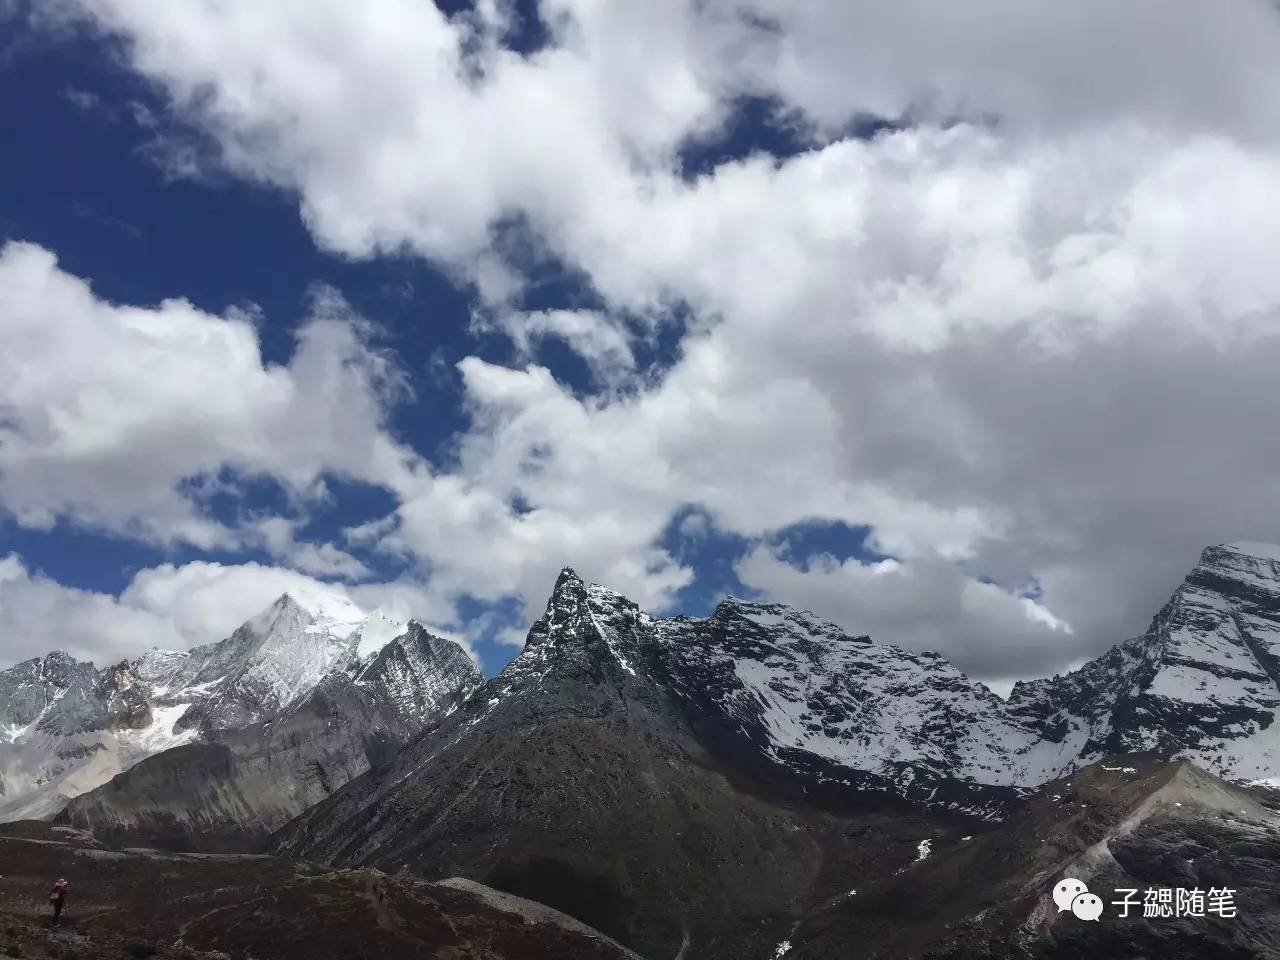
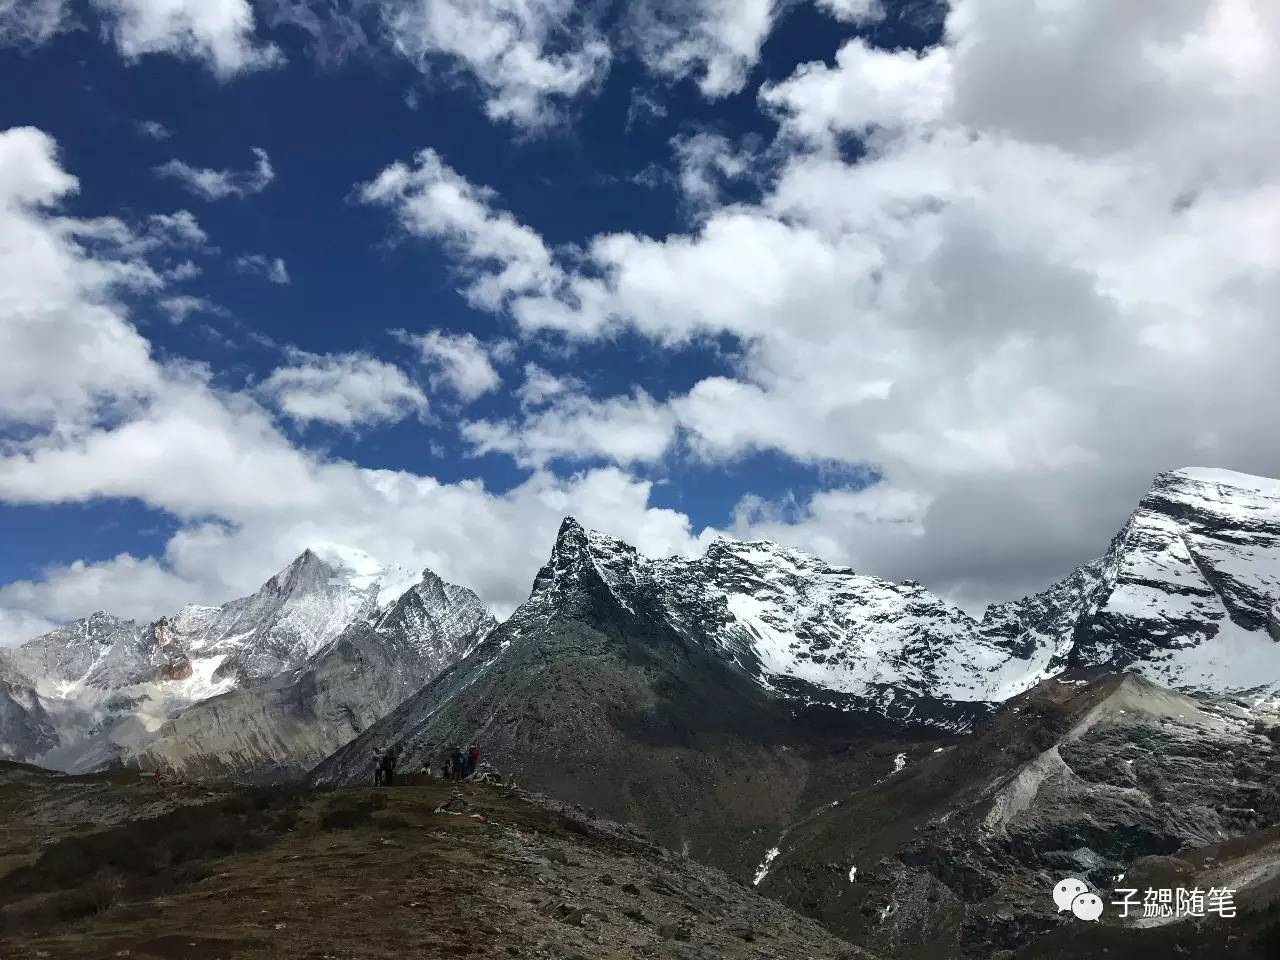
五色海、牛奶海剩余行程

diff --git a/_posts/2017-08-01-lv_cd.md b/_posts/2017-08-01-lv_cd.md
@@ -335,7 +335,11 @@ description: desc
 
 	<img alt="" src="./../public/photo/2017cd/CD_MY_YD_QJ.jpg" width="1200px">
 
-	下午一点以后，天气再次转阴，我们开始下山前往牛奶海。也许是因为真的很幸运，也许是因为虔诚，当到达牛奶海时，天气再度放晴，阳光普照，牛奶海波光粼粼~
+	下午一点以后，天气再次转阴，我们开始下山前往牛奶海。这个时候感觉是大部队到达五色海的时间，可以看到路上人很多。
+	
+	<img alt="" src="./../public/photo/2017cd/CD_MY_YD_WSHXS.jpg" width="600px">
+	
+	也许是因为真的很幸运，也许是因为虔诚，当下到牛奶海时，天气再度放晴，阳光普照，牛奶海波光粼粼~
 
 	<img alt="" src="./../public/photo/2017cd/CD_MY_YD_NNH3.jpg" width="600px">
 
@@ -349,6 +353,24 @@ description: desc
 
 	<img alt="" src="./../public/photo/2017cd/CD_MY_YD_XNR.jpg" width="600px">
 
+	相比上山，下山就轻松了很多。而且下山的时候天气也已经又好了很多。
+
+	<img alt="" src="./../public/photo/2017cd/CD_MY_YD_XSTZ.jpg" width="600px">
+	
+	在下午两点五十，我们下到了快到洛绒牛场的大石头的位置。	
+	<img alt="" src="./../public/photo/2017cd/CD_MY_YD_XSTZ_LRNC.jpg" width="600px">
+	
+	休息一下、首收起登山杖继续下山。到达圣水门接待站以后上个厕所，稍作休息就前往了电瓶车的乘车点。此时陆陆续续已经有不少人下山，因此电瓶车并不用等太久就发车了。下午四点的时候到达了冲古草甸的停车点。由于第二天继续进入景区需要拍一张前一天两人在景区内的合照，因此在出去的时候在电影《从你的全世界路过》取景的地方拍了一张合照（不同的季节，景色相差很大）。
+	
+	<img alt="" src="./../public/photo/2017cd/CD_MY_YD_XSTZ_CGCD.jpg" width="600px">
+	
+	之后继续走栈道出景区，出来景区一直直走，有路标标识每条队伍是前往什么地方的大巴。由于出来比较早，幸好有一个旅游团也要走，因此没有等待，刚好坐满一辆大巴。
+	
+	下午四点四十大巴出发，回城的时候简直要崩溃，本来海拔就高，加上走了一天比较累，而且下午有夕晒车上虽然有空调但是还是热，最关键是的是大角度的盘山路，师傅开的还很快，车上不断的有人晕车要塑料袋，妹子也一度崩溃到不行。我在已经快看到日瓦的时候也忽然好晕，还好很快就到。五点半多一点终于到达，下车以后有风，走几步就好了很多，师傅也已经在门口了接了回到酒店休整。
+	
+	到酒店洗漱完以后叫了师傅一起吃完晚饭，在日瓦简单逛了一下，因为下午天气好转了，因此就尝试看能不能看到星星。结果发现虽然不多还是有；就打算早点睡觉，晚一点再起来看。
+	
+	晚上十一点再起来看的时候，因为在居住区有灯光污染，因此效果很一般，而且因为傍晚起风了，又有云了，不过勉强还是看到了北斗七星和一些星星点点的小星星。之后就放弃了后半夜再起来看的计划，直接休息补充体力了
 
 #### 第五天（2017-05-24）：珍珠海、仙乃日、黑达区加油站
 
